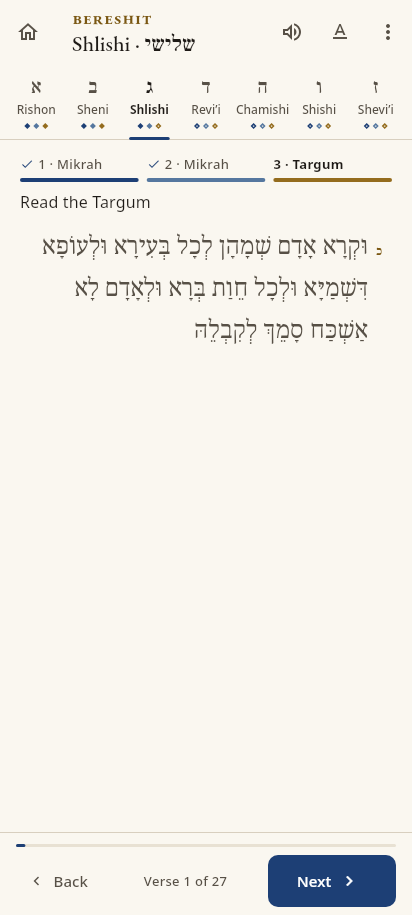
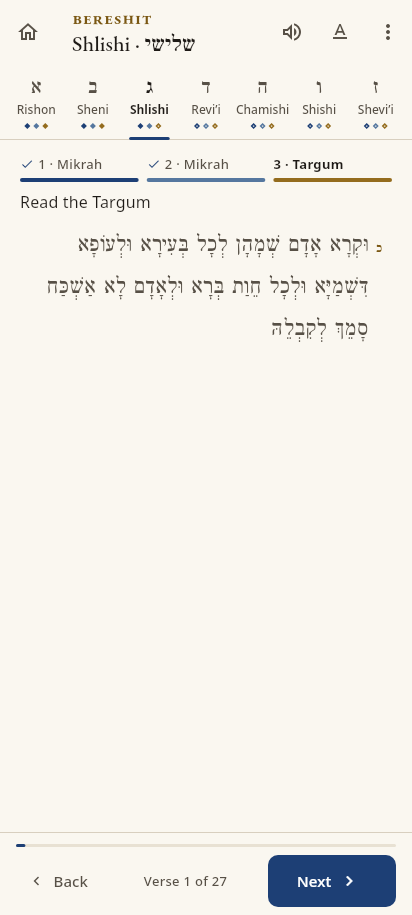
Set the Torah in Taamey Frank, which places the meteg and a final kaf's marks correctly
Noto Serif Hebrew, the default scripture font until now, sets a meteg under the vowel beside it instead of to its left, and draws a final kaf's qamats over its dagesh (אַרְאֶֽךָּ), as a reader showed against Sefaria and AlHaTorah. Taamey Frank, which Sefaria uses and the app already offered, sets both as a printed Chumash does: checked on every meteg and final-kaf combination in the text, through HarfBuzz as the app shapes it.

- Taamey Frank is the default for the Torah and the Targum, first in both font pickers. Settings saved while Noto Serif Hebrew was the default move to it once; a font chosen since stays. Older versions still read the setting.
- The web app precaches it, as it is now loaded before the first frame: fetched on the first visit before the service worker is there, it would otherwise be missing offline.
- The theme waits for the interface font alone, not for the scripture font loading beside it, so an accessibility font is applied as soon as it arrives.
- The reader's goldens are redrawn in it. The maqaf test is narrowed to keep a phrase too wide for its line in the narrower font, and the tests' font loader starts its loads afresh, as one begun at start-up in an earlier test may wait on that test's fake clock.

Claude-Session: https://claude.ai/code/session_01FpCxE3pusCE35YFjz4NtTU

Changed region(s): [[0.0874, 0.2448, 0.932, 0.3672]]

diff --git a/test/features/settings/app_settings_test.dart b/test/features/settings/app_settings_test.dart
@@ -240,11 +240,26 @@ void main() {
   });
 
   test('the fonts to load are the chosen ones, and the Rashi script only while Rashi is shown in it', () {
-    expect(const AppSettings().optionalFonts, [null, 'NotoSerifHebrew']);
-    const chosen = AppSettings(uiFont: UiFont.lexend, scriptureFont: ScriptureFont.taameyFrank, rashiScript: true);
-    expect(chosen.optionalFonts, ['Lexend', 'TaameyFrank'], reason: 'no Rashi is shown');
-    expect(chosen.copyWith(showRashi: true).optionalFonts, ['Lexend', 'TaameyFrank', kRashiScriptFamily]);
+    expect(const AppSettings().optionalFonts, [null, 'TaameyFrank']);
+    const chosen = AppSettings(uiFont: UiFont.lexend, scriptureFont: ScriptureFont.ezra, rashiScript: true);
+    expect(chosen.optionalFonts, ['Lexend', 'EzraSIL'], reason: 'no Rashi is shown');
+    expect(chosen.copyWith(showRashi: true).optionalFonts, ['Lexend', 'EzraSIL', kRashiScriptFamily]);
     expect(chosen.copyWith(secondReading: SecondReading.rashi).optionalFonts, contains(kRashiScriptFamily));
+  });
+
+  // Noto Serif Hebrew, the default before, sets a meteg under its vowel and a
+  // final kaf's qamats over its dagesh.
+  test('Taamey Frank is the default, and settings saved with the old default move to it', () {
+    expect(const AppSettings().scriptureFont, ScriptureFont.taameyFrank);
+    expect(AppSettings.fromJson({}).scriptureFont, ScriptureFont.taameyFrank);
+    // Saved before 'scriptureTypeface': Noto Serif Hebrew was only the default.
+    expect(AppSettings.fromJson({'scriptureFont': 'notoSerif'}).scriptureFont, ScriptureFont.taameyFrank);
+    expect(AppSettings.fromJson({'scriptureFont': 'ezra'}).scriptureFont, ScriptureFont.ezra);
+    // Chosen since, it stays, and older versions still read it.
+    final noto = const AppSettings(scriptureFont: ScriptureFont.notoSerif).toJson();
+    expect(noto['scriptureFont'], 'notoSerif');
+    expect(AppSettings.fromJson(noto).scriptureFont, ScriptureFont.notoSerif);
+    expect(AppSettings.fromJson({'scriptureTypeface': 'nonsense'}).scriptureFont, ScriptureFont.taameyFrank);
   });
 
   test('line spacing is never under 1.6, so that lower marks are never clipped', () {
@@ -461,18 +476,18 @@ void main() {
     expect(AppSettings.fromJson({}).rashiScript, isFalse);
     const on = AppSettings(rashiScript: true, showRashi: true);
     expect(AppSettings.fromJson(on.toJson()).rashiScript, isTrue);
-    expect(const AppSettings().optionalFonts, [null, 'NotoSerifHebrew']);
-    expect(on.optionalFonts, [null, 'NotoSerifHebrew', 'NotoRashiHebrew']);
+    expect(const AppSettings().optionalFonts, [null, 'TaameyFrank']);
+    expect(on.optionalFonts, [null, 'TaameyFrank', 'NotoRashiHebrew']);
     expect(
       const AppSettings(rashiScript: true, secondReading: SecondReading.rashi).optionalFonts,
-      [null, 'NotoSerifHebrew', 'NotoRashiHebrew'],
+      [null, 'TaameyFrank', 'NotoRashiHebrew'],
       reason: 'Rashi read as the second reading',
     );
     // Chosen, but with Rashi shown nowhere: nothing to load it for.
-    expect(const AppSettings(rashiScript: true).optionalFonts, [null, 'NotoSerifHebrew']);
+    expect(const AppSettings(rashiScript: true).optionalFonts, [null, 'TaameyFrank']);
     expect(
-      const AppSettings(uiFont: UiFont.lexend, scriptureFont: ScriptureFont.taameyFrank).optionalFonts,
-      ['Lexend', 'TaameyFrank'],
+      const AppSettings(uiFont: UiFont.lexend, scriptureFont: ScriptureFont.ezra).optionalFonts,
+      ['Lexend', 'EzraSIL'],
     );
   });
 

diff --git a/lib/features/settings/app_settings.dart b/lib/features/settings/app_settings.dart
@@ -58,8 +58,15 @@ enum ScreenReaderText {
   allMarks,
 }
 
+/// The font of the Torah and the Targum. Persisted by name.
 enum ScriptureFont {
+  /// Bundled, and the only one with a bold weight, but it sets a meteg under
+  /// the vowel beside it, not to its left, and a final kaf's qamats over its
+  /// dagesh (אַרְאֶֽךָּ).
   notoSerif('NotoSerifHebrew'),
+
+  /// The default, as on Sefaria: it sets every mark where a printed Chumash
+  /// does. Loaded on demand (OptionalFonts), in its Medium weight alone.
   taameyFrank('TaameyFrank'),
   ezra('EzraSIL'),
   notoSans('NotoSansHebrew');
@@ -211,7 +218,7 @@ class AppSettings {
     this.copyDivineNameAsHashem = true,
     this.justifyMode = JustifyMode.auto,
     this.lineWidth = LineWidth.medium,
-    this.scriptureFont = ScriptureFont.notoSerif,
+    this.scriptureFont = ScriptureFont.taameyFrank,
     this.uiFont = UiFont.standard,
     this.boldText = false,
     this.focusMode = false,
@@ -733,6 +740,9 @@ class AppSettings {
         // For versions from before Auto, which read a switch.
         'justify': justifyMode == JustifyMode.always,
         'lineWidth': lineWidth.name,
+        'scriptureTypeface': scriptureFont.name,
+        // For versions from before Taamey Frank was the default, which read
+        // this one.
         'scriptureFont': scriptureFont.name,
         'uiFont': uiFont.name,
         'boldText': boldText,
@@ -833,7 +843,14 @@ class AppSettings {
       // reader's choice, and off only the default, which Auto now is.
       justifyMode: e(JustifyMode.values, j['justifyMode'], j['justify'] == true ? JustifyMode.always : d.justifyMode),
       lineWidth: e(LineWidth.values, j['lineWidth'], d.lineWidth),
-      scriptureFont: e(ScriptureFont.values, j['scriptureFont'], d.scriptureFont),
+      // Settings saved before 'scriptureTypeface' have Noto Serif Hebrew only
+      // because it was the default then: they move to Taamey Frank, which
+      // sets the meteg and a final kaf's marks correctly.
+      scriptureFont: j.containsKey('scriptureTypeface')
+          ? e(ScriptureFont.values, j['scriptureTypeface'], d.scriptureFont)
+          : j['scriptureFont'] == ScriptureFont.notoSerif.name
+              ? d.scriptureFont
+              : e(ScriptureFont.values, j['scriptureFont'], d.scriptureFont),
       uiFont: e(UiFont.values, j['uiFont'], d.uiFont),
       boldText: b('boldText', d.boldText),
       focusMode: b('focusMode', d.focusMode),

diff --git a/test/services/optional_fonts_test.dart b/test/services/optional_fonts_test.dart
@@ -129,17 +129,18 @@ void main() {
 
   testWidgets('the app loads an opt-in font as soon as it is chosen', (tester) async {
     final c = await pumpApp(tester);
+    expect(OptionalFonts.isRequested('TaameyFrank'), isTrue, reason: 'the default scripture font');
     expect(OptionalFonts.isRequested('Lexend'), isFalse);
-    expect(OptionalFonts.isRequested('TaameyFrank'), isFalse);
+    expect(OptionalFonts.isRequested('EzraSIL'), isFalse);
 
     c.read(settingsProvider.notifier).update((s) => s.copyWith(uiFont: UiFont.lexend));
     await tester.pump();
     expect(OptionalFonts.isRequested('Lexend'), isTrue);
 
-    c.read(settingsProvider.notifier).update((s) => s.copyWith(scriptureFont: ScriptureFont.taameyFrank));
+    c.read(settingsProvider.notifier).update((s) => s.copyWith(scriptureFont: ScriptureFont.ezra));
     await tester.pump();
-    expect(OptionalFonts.isRequested('TaameyFrank'), isTrue);
-    expect(OptionalFonts.isRequested('EzraSIL'), isFalse, reason: 'only what is chosen');
+    expect(OptionalFonts.isRequested('EzraSIL'), isTrue);
+    expect(OptionalFonts.isRequested('OpenDyslexic'), isFalse, reason: 'only what is chosen');
   });
 
   testWidgets('the Rashi script loads once, on demand, and text already shown picks it up', (tester) async {

diff --git a/lib/app/app.dart b/lib/app/app.dart
@@ -139,9 +139,12 @@ class _ShnayimMikrahAppState extends ConsumerState<ShnayimMikrahApp> with Widget
   /// builds the theme in the interface font once it has.
   void _loadFonts() {
     final settings = ref.read(settingsProvider);
-    OptionalFonts.ensureAll(settings.optionalFonts).then((_) {
+    OptionalFonts.ensureAll(settings.optionalFonts);
+    // The theme waits for the interface font alone, not for the scripture
+    // font loading beside it. One that fails is tried again on resume.
+    OptionalFonts.ensure(settings.uiFont.family).then((_) {
       if (mounted && OptionalFonts.isLoaded(ref.read(settingsProvider).uiFont.family)) setState(() {});
-    });
+    }, onError: (Object _) {});
   }
 
   /// Whether the device asks for less motion: Android's Remove animations

diff --git a/test/features/search/search_screen_test.dart b/test/features/search/search_screen_test.dart
@@ -425,10 +425,10 @@ void main() {
   });
 
   testWidgets('parts words joined by a maqaf only where they are too wide together for a line', (tester) async {
-    await open(tester, size: const Size(320, 640), textScale: 3);
+    await open(tester, size: const Size(280, 640), textScale: 3);
     await tester.pumpAndSettle();
     // Genesis 1:7, the first verse found, has אֶת־הָרָקִיעַ, too wide for
-    // a line at this size.
+    // a line at this size in the default font, Taamey Frank.
     await search(tester, 'הרקיע');
     expect(tester.takeException(), isNull);
     final box = tester.renderObject<RenderMarkedText>(find.byType(MarkedText).first);

diff --git a/test/features/settings/display_settings_test.dart b/test/features/settings/display_settings_test.dart
@@ -310,9 +310,10 @@ void main() {
     OptionalFonts.reset();
     addTearDown(OptionalFonts.reset);
     await open(tester);
-    for (final family in ['Lexend', 'AtkinsonHyperlegibleNext', 'OpenDyslexic', 'TaameyFrank', 'EzraSIL']) {
+    for (final family in ['Lexend', 'AtkinsonHyperlegibleNext', 'OpenDyslexic', 'EzraSIL']) {
       expect(OptionalFonts.isSampled(family), isTrue, reason: family);
       expect(OptionalFonts.isRequested(family), isFalse, reason: '$family: not in full');
     }
+    expect(OptionalFonts.isRequested('TaameyFrank'), isTrue, reason: 'the scripture font chosen, by default');
   });
 }

diff --git a/test/helpers.dart b/test/helpers.dart
@@ -59,7 +59,10 @@ Future<void> loadBundledFonts() => _fonts ??= () async {
           await loader.load();
         }
       }
-      // Through OptionalFonts, so that the app finds them already loaded.
+      // Through OptionalFonts, so that the app finds them already loaded;
+      // afresh, as a load an earlier test began (the default scripture font,
+      // at start-up) may wait on that test's fake clock, and never finish.
+      OptionalFonts.reset();
       for (final family in OptionalFonts.families) {
         await OptionalFonts.ensure(family);
       }

diff --git a/test/features/reader/scripture_text_test.dart b/test/features/reader/scripture_text_test.dart
@@ -168,7 +168,7 @@ void main() {
     testWidgets('a strut keeps every line of a verse at its pitch', (tester) async {
       await pumpVerse(tester, serpent, settings: const AppSettings(lineHeight: 2.2, readingScale: 1.5));
       final strut = tester.widget<RichText>(find.byType(RichText)).strutStyle!;
-      expect(strut.fontFamily, 'NotoSerifHebrew');
+      expect(strut.fontFamily, 'TaameyFrank');
       expect(strut.fontSize, closeTo(26 * 1.5, 0.001));
       expect(strut.height, 2.2);
       expect(strut.leadingDistribution, TextLeadingDistribution.even);

diff --git a/lib/features/settings/screens/display_settings_screen.dart b/lib/features/settings/screens/display_settings_screen.dart
@@ -191,8 +191,8 @@ class _DisplaySettingsScreenState extends ConsumerState<DisplaySettingsScreen> {
           value: s.scriptureFont,
           choices: [
             for (final (font, name) in [
-              (ScriptureFont.notoSerif, l.fontNotoSerif),
               (ScriptureFont.taameyFrank, l.fontTaamey),
+              (ScriptureFont.notoSerif, l.fontNotoSerif),
               (ScriptureFont.ezra, l.fontEzra),
               (ScriptureFont.notoSans, l.fontNotoSans),
             ])

diff --git a/lib/features/reader/display_sheet.dart b/lib/features/reader/display_sheet.dart
@@ -84,8 +84,8 @@ class _DisplaySheet extends ConsumerWidget {
             child: _FontChips(
               value: s.scriptureFont,
               names: {
-                ScriptureFont.notoSerif: l.fontNotoSerif,
                 ScriptureFont.taameyFrank: l.fontTaamey,
+                ScriptureFont.notoSerif: l.fontNotoSerif,
                 ScriptureFont.ezra: l.fontEzra,
                 ScriptureFont.notoSans: l.fontNotoSans,
               },
